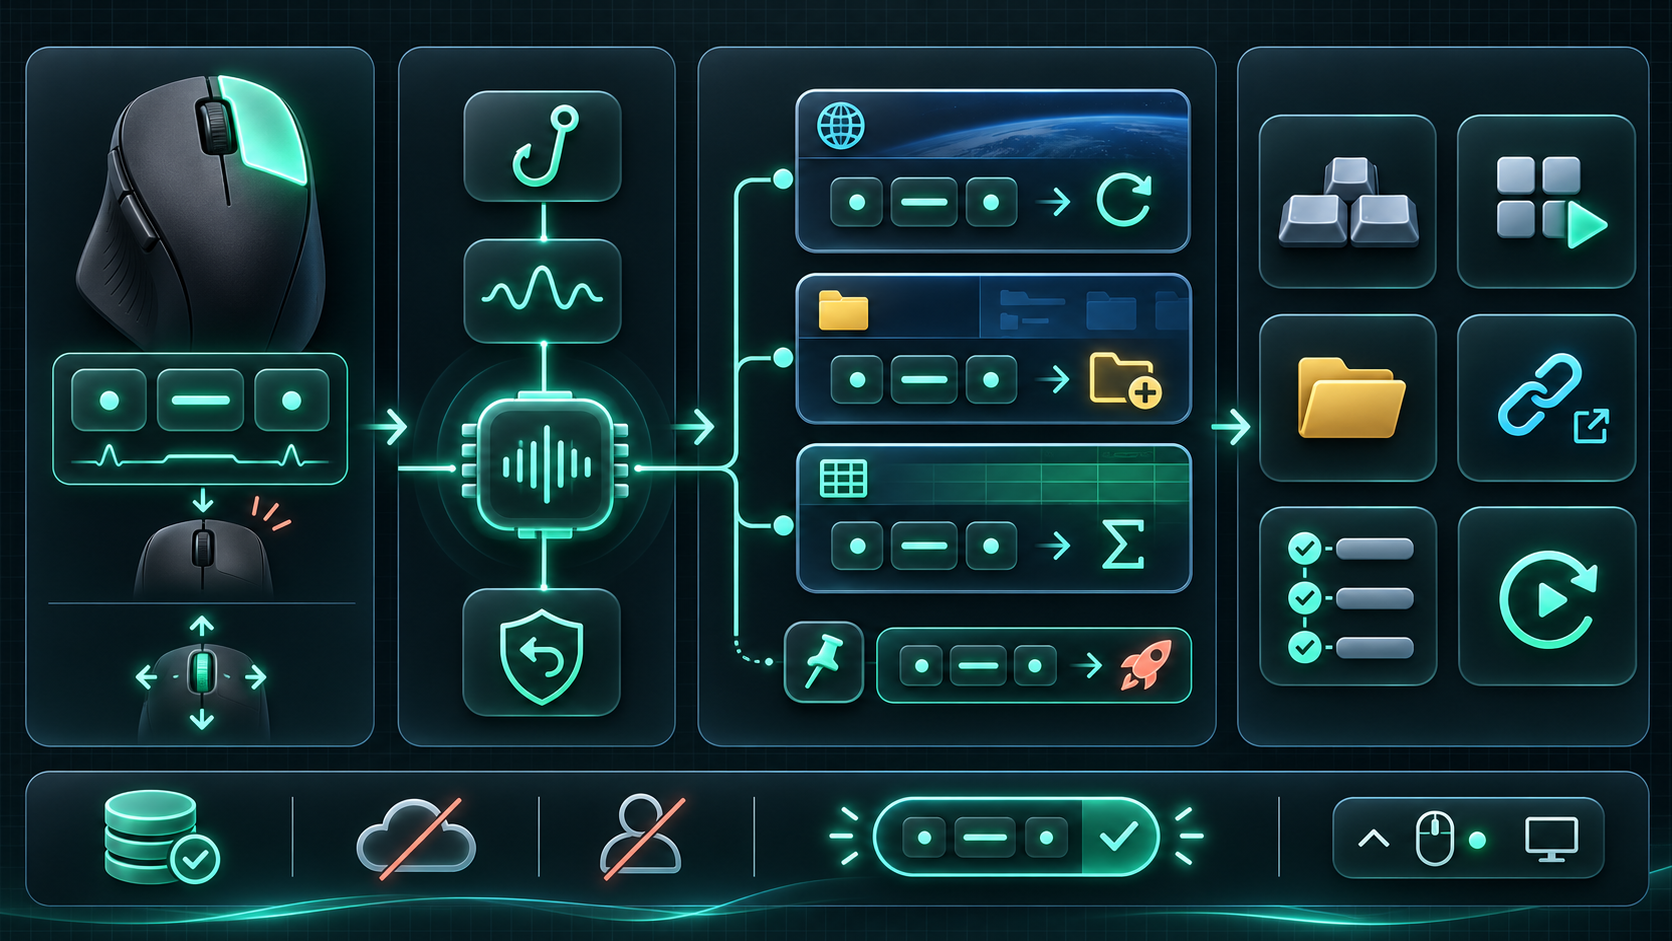
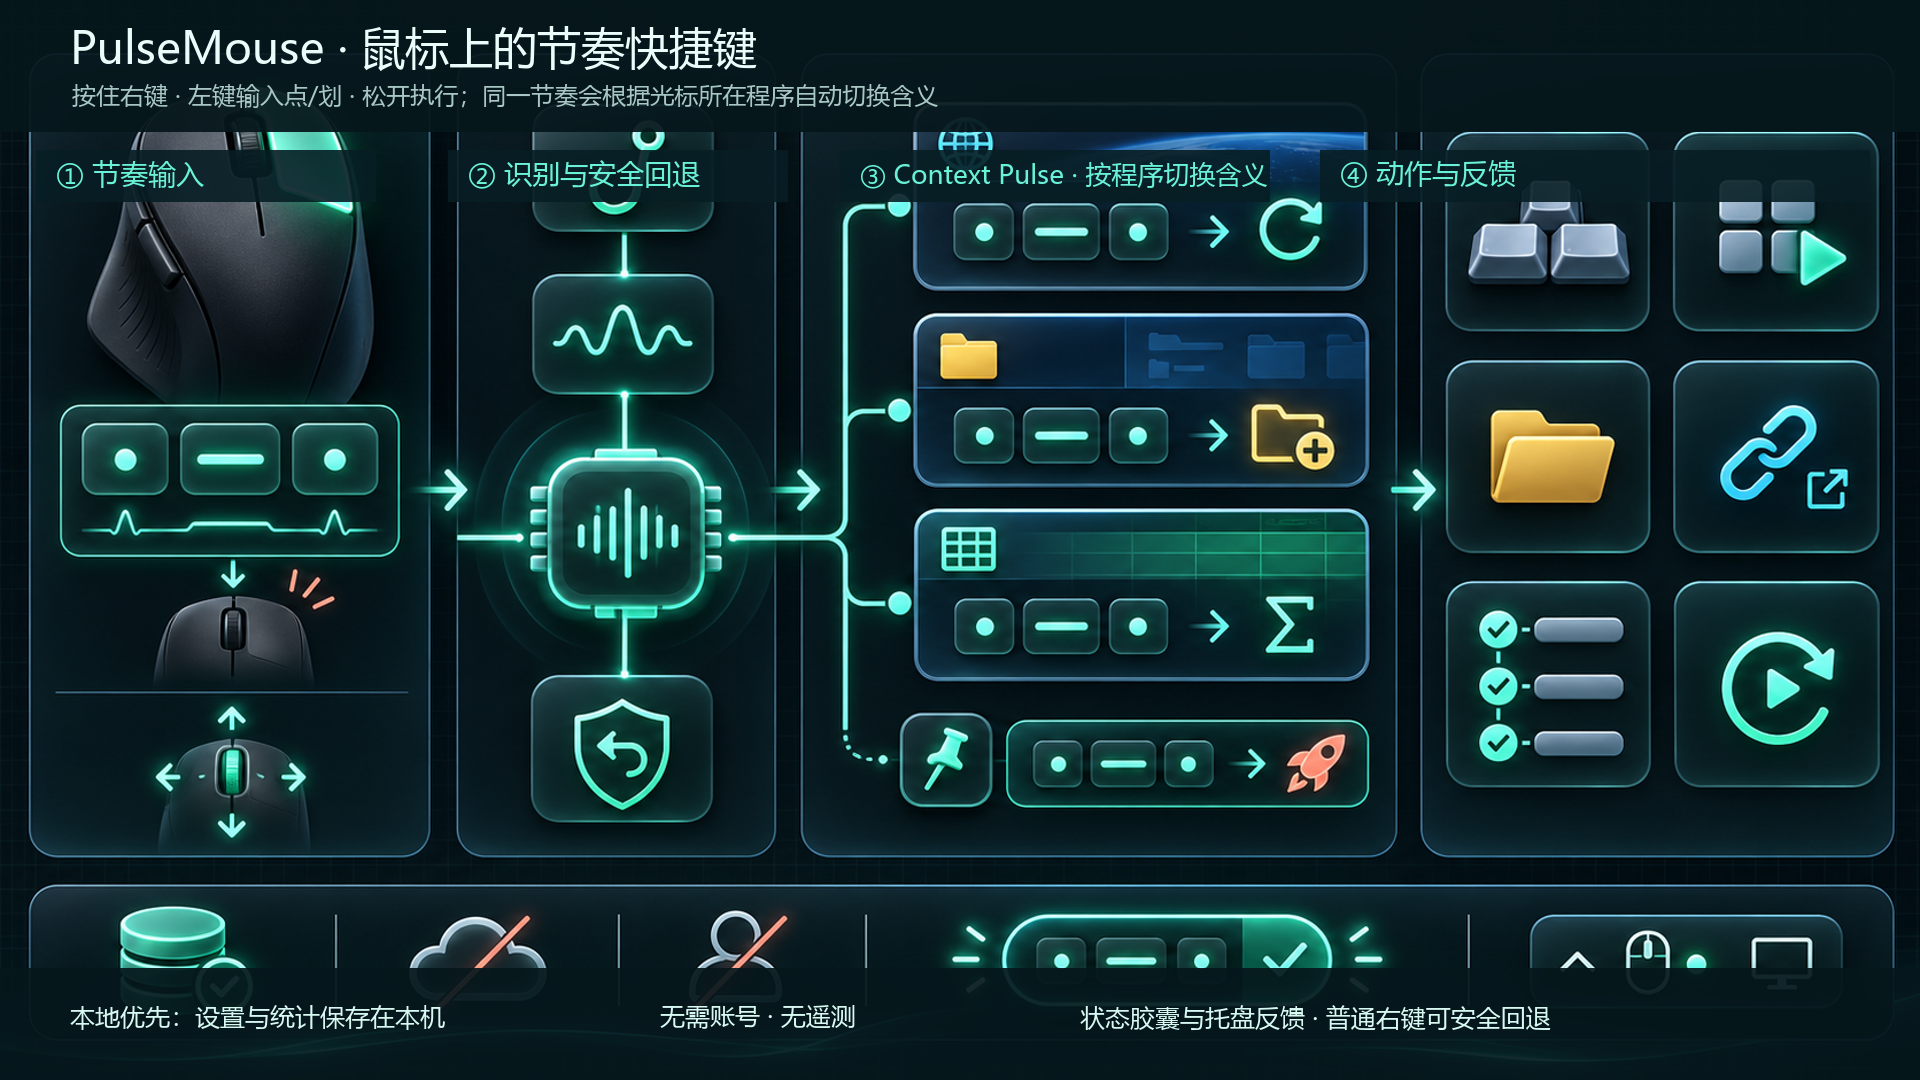
assets: add labeled product architecture overview

diff --git a/README.md b/README.md
@@ -24,7 +24,7 @@ Launchers and menus are great when you need to discover an action. PulseMouse is
 | **Workflow builder** | **Settings and safety controls** |
 | ![The workflow builder shows confirmation-first multi-step automation](docs/assets/screenshots/04-workflows.jpg) | ![Settings show Context Pulse, on-screen feedback, and backup controls](docs/assets/screenshots/05-settings.jpg) |
 
-All screenshots above are captured from the running `v0.9.0` application. The [concept cover](docs/assets/pulsemouse-cover.png) is retained as brand artwork only; it is not a product UI screenshot.
+All screenshots above are captured from the running `v0.9.0` application. The [feature-and-architecture overview](docs/assets/pulsemouse-cover.png) explains the product flow; it is not a product UI screenshot.
 
 ## Highlights
 

diff --git a/README.zh-CN.md b/README.zh-CN.md
@@ -24,7 +24,7 @@
 | **工作流编辑器** | **设置与安全控制** |
 | ![工作流编辑器：确认后执行多步骤自动化](docs/assets/screenshots/04-workflows.jpg) | ![设置：按程序切换含义、屏幕反馈和备份控制](docs/assets/screenshots/05-settings.jpg) |
 
-以上均为正在运行的 `v0.9.0` 应用实机截图。 [概念主视觉](docs/assets/pulsemouse-cover.png) 仅作为品牌封面，不再用于说明产品界面或功能。
+以上均为正在运行的 `v0.9.0` 应用实机截图。 [功能与架构总览](docs/assets/pulsemouse-cover.png) 用于说明产品链路；它不是产品界面截图。
 
 ## 核心能力
 
